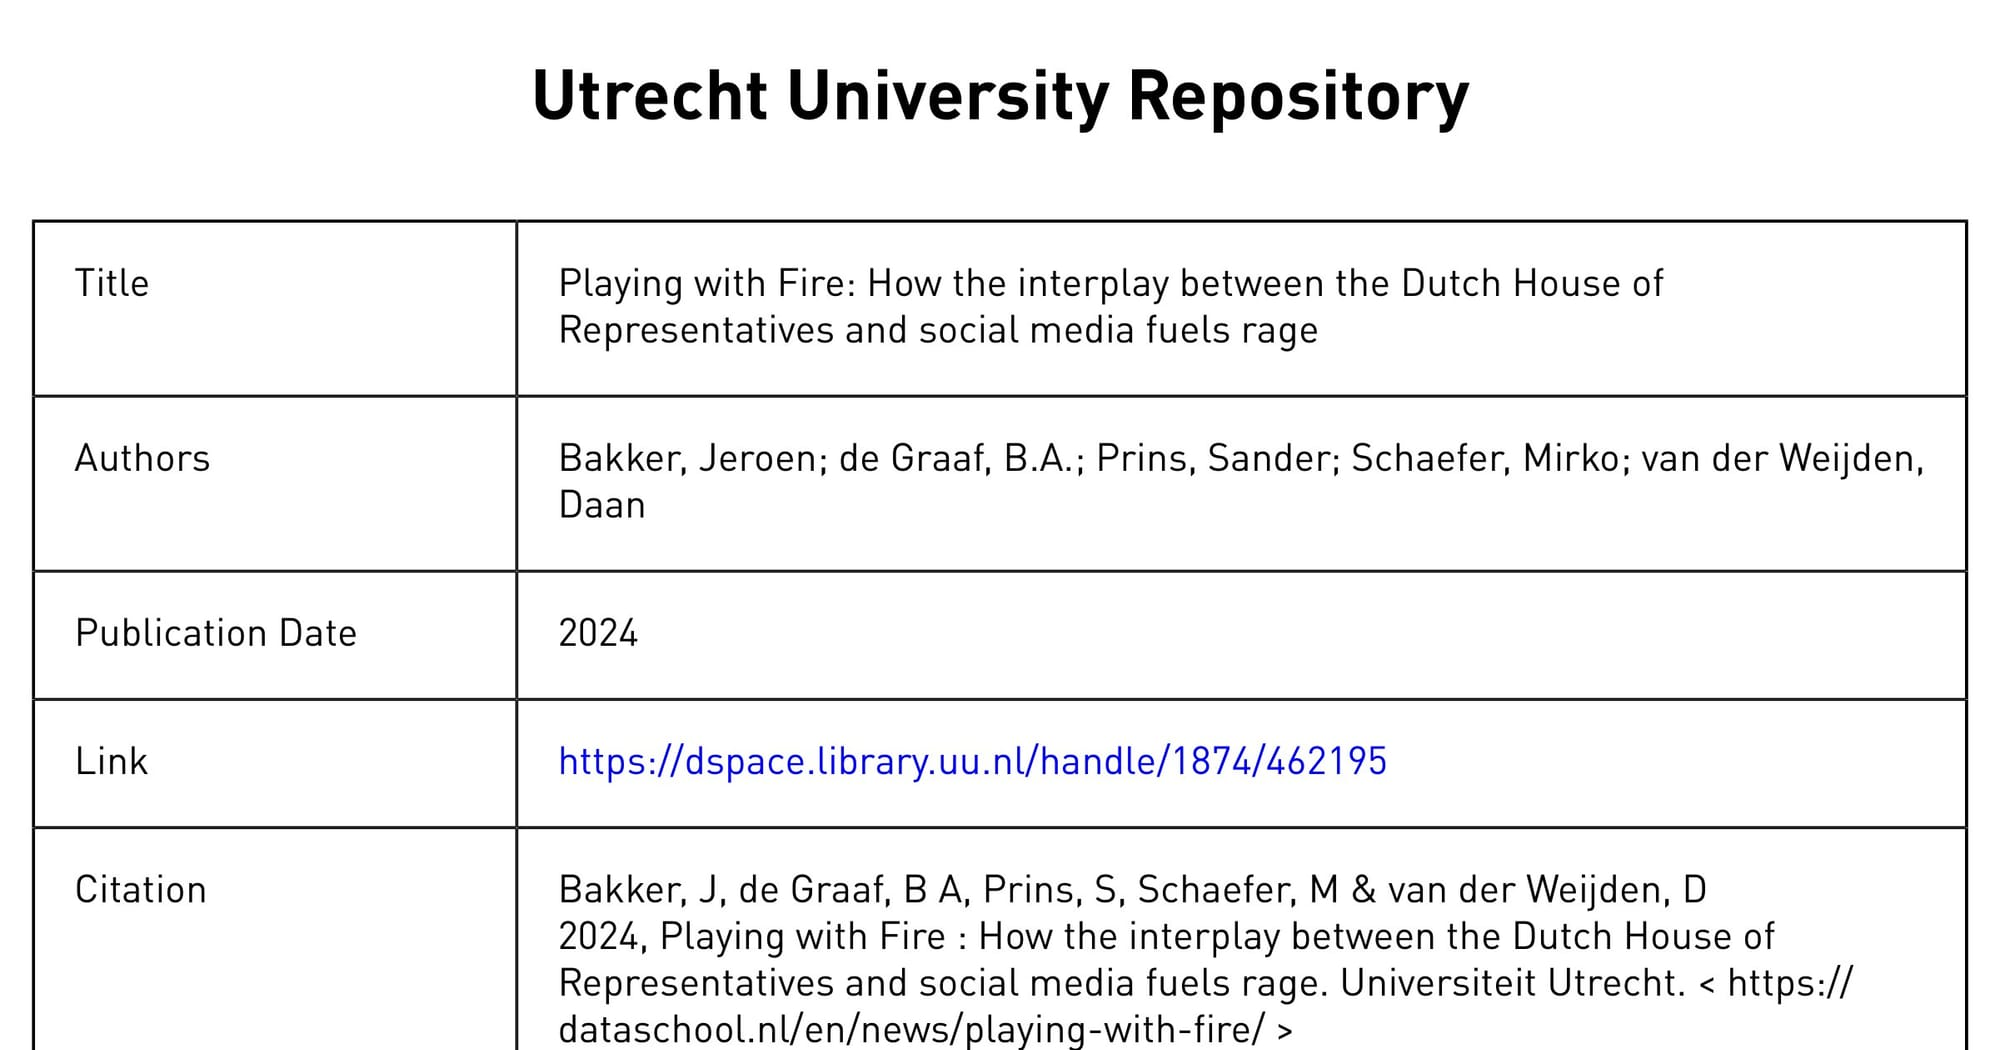
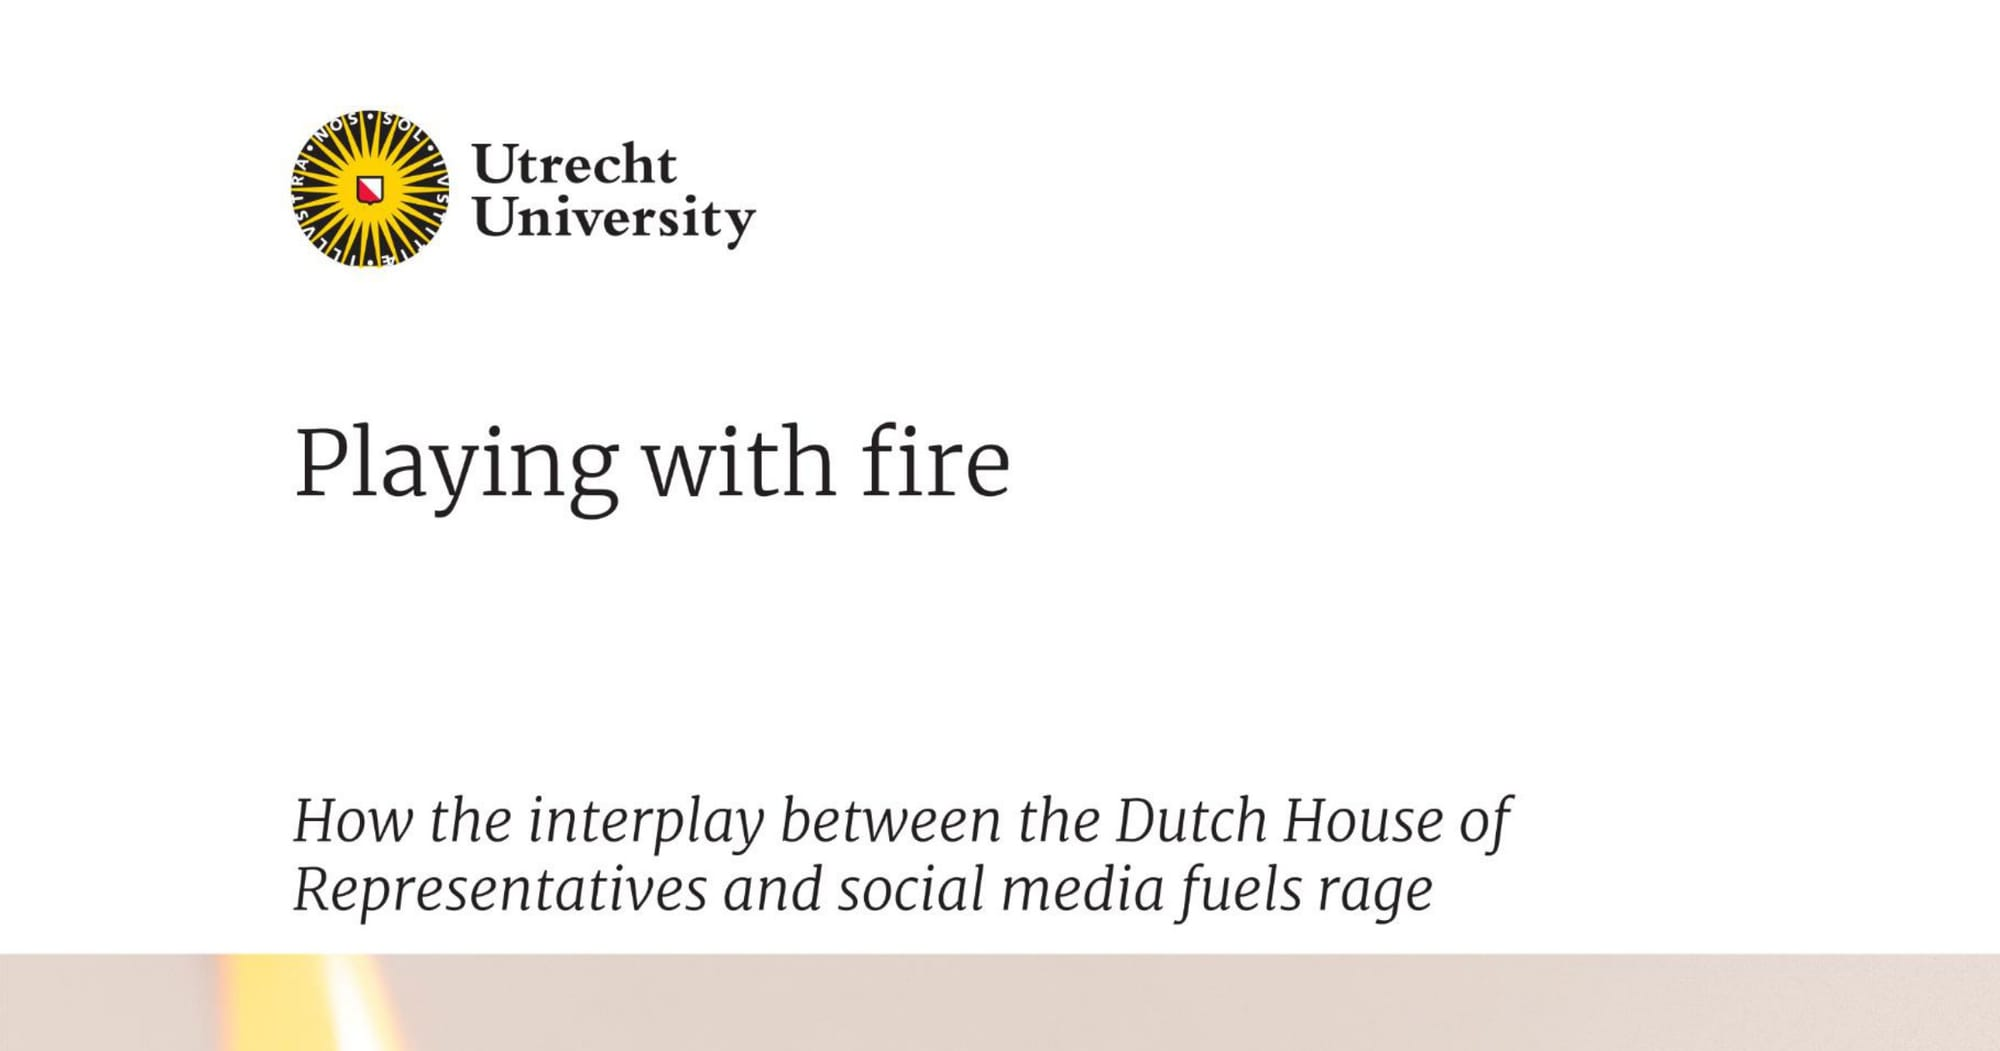
Link previews: use the real title page for Playing with Fire
Page 1 of that PDF is the repository cover sheet; scanned pages without a text
layer now show the full page width.

diff --git a/scripts/build_thumbs.py b/scripts/build_thumbs.py
@@ -64,13 +64,16 @@ def render_page(pdf_path: str, out_path: str, width: int, page_number: int) -> N
 
 
 OG_WIDTH, OG_HEIGHT = 2400, 1260
+# PDFs whose page 1 is a repository cover sheet: the page (1-indexed) with the
+# paper's real title block, used for the link preview.
+OG_PAGE = {"2024-playing-with-fire": 2}
 
 
-def render_og(pdf_path: str, out_path: str) -> None:
-    """Render the top of page 1 (title, authors, start of the text) as a wide preview."""
+def render_og(pdf_path: str, out_path: str, page_number: int = 1) -> None:
+    """Render the top of the title page (title, authors, start of the text) as a wide preview."""
     doc = fitz.open(pdf_path)
     try:
-        page = doc.load_page(0)
+        page = doc.load_page(page_number - 1)
         # Horizontal text lines only, so arXiv's sideways margin stamp doesn't
         # widen the crop.
         boxes = [
@@ -83,9 +86,9 @@ def render_og(pdf_path: str, out_path: str) -> None:
             x0 = min(b[0] for b in boxes)
             x1 = max(b[2] for b in boxes)
             y0 = min(b[1] for b in boxes)
-        else:  # scanned PDF without a text layer: fall back to the page margins
-            x0, x1, y0 = 50, page.rect.width - 50, 50
-        pad = 0.04 * (x1 - x0)
+        else:  # scanned page without a text layer: the full width, from the top
+            x0, x1, y0 = 0, page.rect.width, 0.04 * page.rect.height
+        pad = 0.04 * (x1 - x0) if boxes else 0
         x0, x1, y0 = max(0, x0 - pad), min(page.rect.width, x1 + pad), max(0, y0 - 1.5 * pad)
         clip = fitz.Rect(x0, y0, x1, y0 + (x1 - x0) * OG_HEIGHT / OG_WIDTH)
         zoom = OG_WIDTH / clip.width
@@ -141,7 +144,7 @@ def main() -> None:
         og_out = os.path.join(og_dir, f"{stem}.jpg")
         if not os.path.exists(og_out) or args.force:
             try:
-                render_og(os.path.join(papers_dir, pdf), og_out)
+                render_og(os.path.join(papers_dir, pdf), og_out, OG_PAGE.get(stem, 1))
                 print(f"  ok    og/{stem}.jpg")
             except Exception as e:  # noqa: BLE001
                 print(f"  FAIL  og/{stem}.jpg: {e}")
